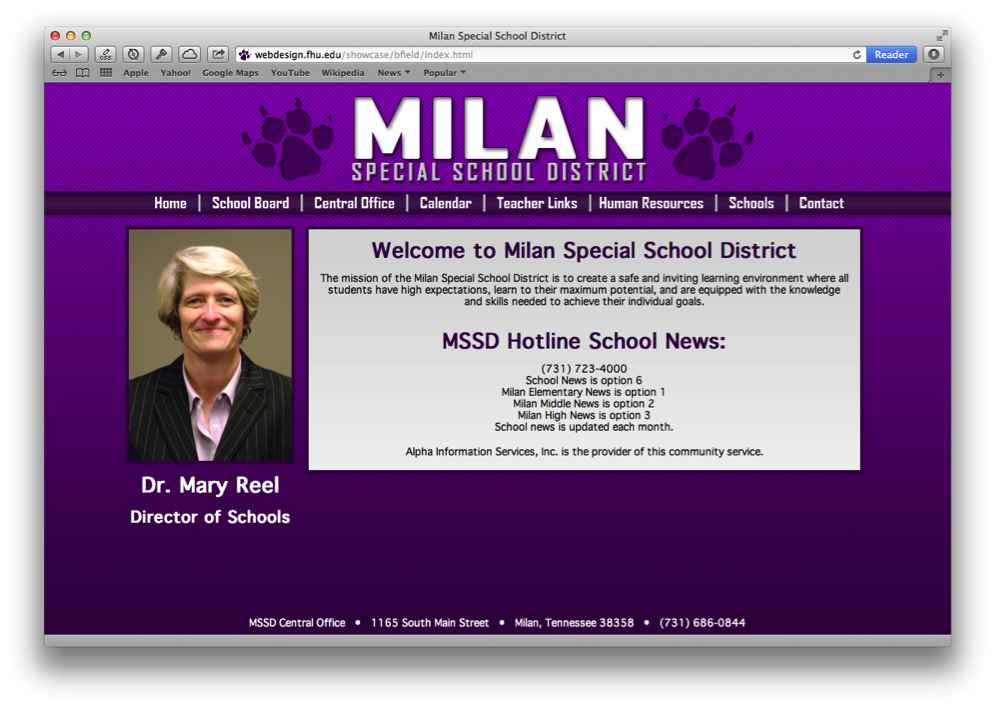
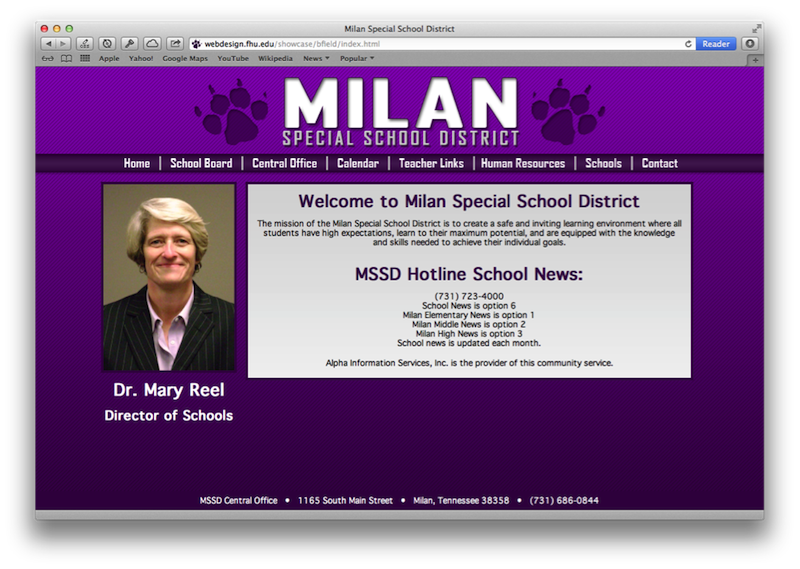
reduced image size

diff --git a/css/style.css b/css/style.css
@@ -227,8 +227,10 @@ and (max-width : 550px)
 }
 
 #what-is-idd p.high-emphasis {
-	font-size: 1.4em;
+	font-size: 1.45em;
 	line-height: 1.6em;
+	font-weight: 300;
+	
 }
 
 #what-is-idd p.med-emphasis {
